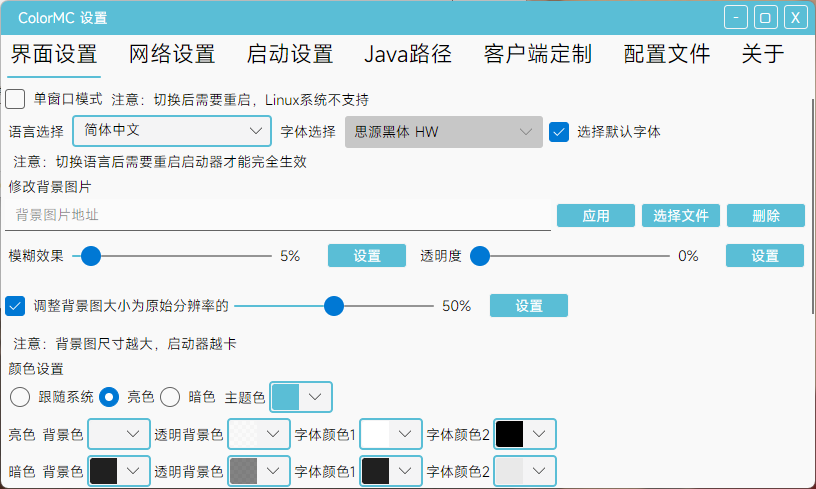
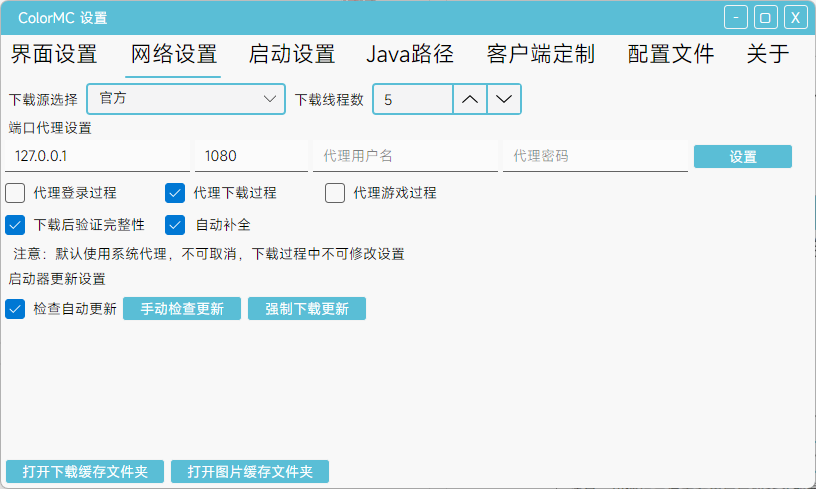
up
修复添加实例时mod加载器版本选择问题

diff --git a/guide/Main.md b/guide/Main.md
@@ -243,17 +243,31 @@ NBT编辑器下，可以通过右键来打开菜单进行编辑
 ## 启动器设置
 
 在启动器主页面点击`启动器设置`按钮可以打开窗口  
-![](pic15.png)  
 
 启动器设置主要有
 - 界面设置
-
+![](pic41.png)  
 调节启动器界面显示等
-- 网络设置 调节启动器联网功能
-- 启动设置 调节游戏启动参数等
-- Java路径 调节目前设置的Java
-- 客户端定制 给服主使用的定制功能
-- 配置文件 启动器配置文件
+例如启动器的主题色，背景颜色  
+启动器的字体，窗口透明方式等
+- 网络设置
+![](pic15.png)  
+调节启动器联网功能  
+在文件下载过程中，不可修改代理设置
+- 启动设置
+![](pic42.png)  
+调节游戏启动参数等  
+例如启动前，启动后运行  
+游戏窗口大小等
+- Java路径
+![](pic43.png)  
+调节目前设置的Java
+- 客户端定制
+![](pic44.png)  
+给服主使用的定制功能
+- 配置文件
+![](pic45.png)  
+启动器配置文件
 - 关于 启动器说明
 
 ## Live2D人物显示
